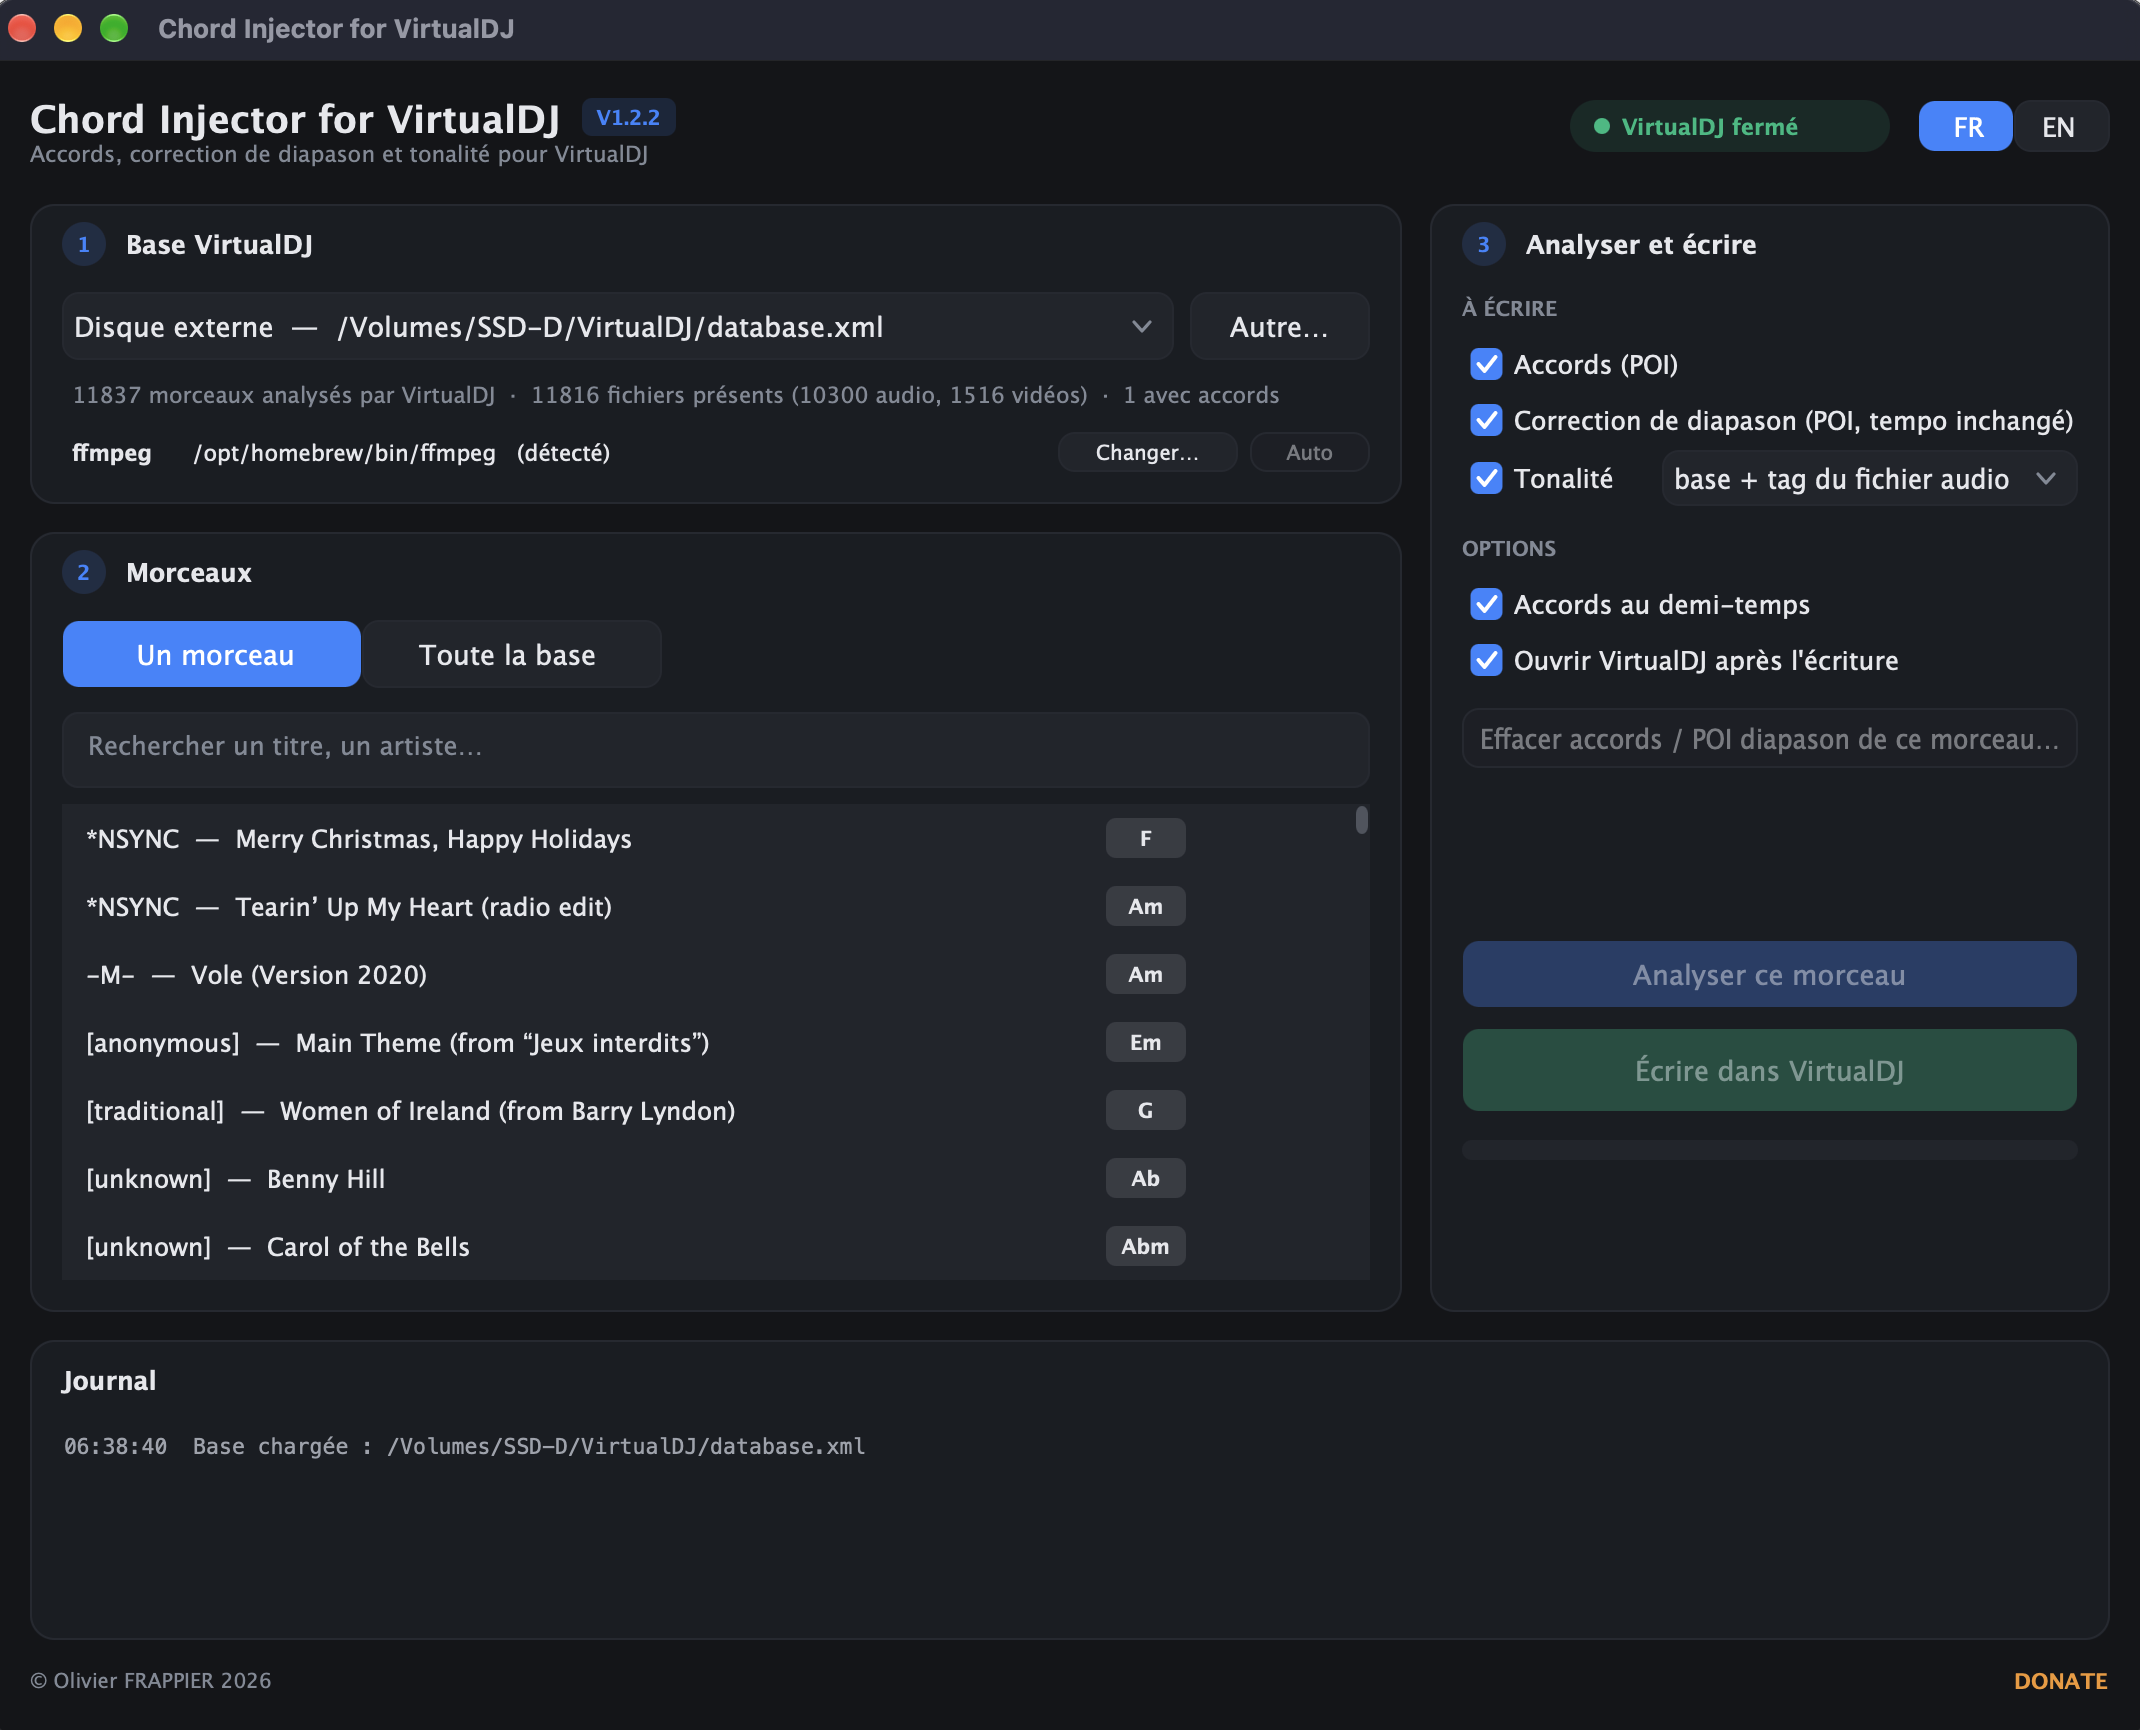
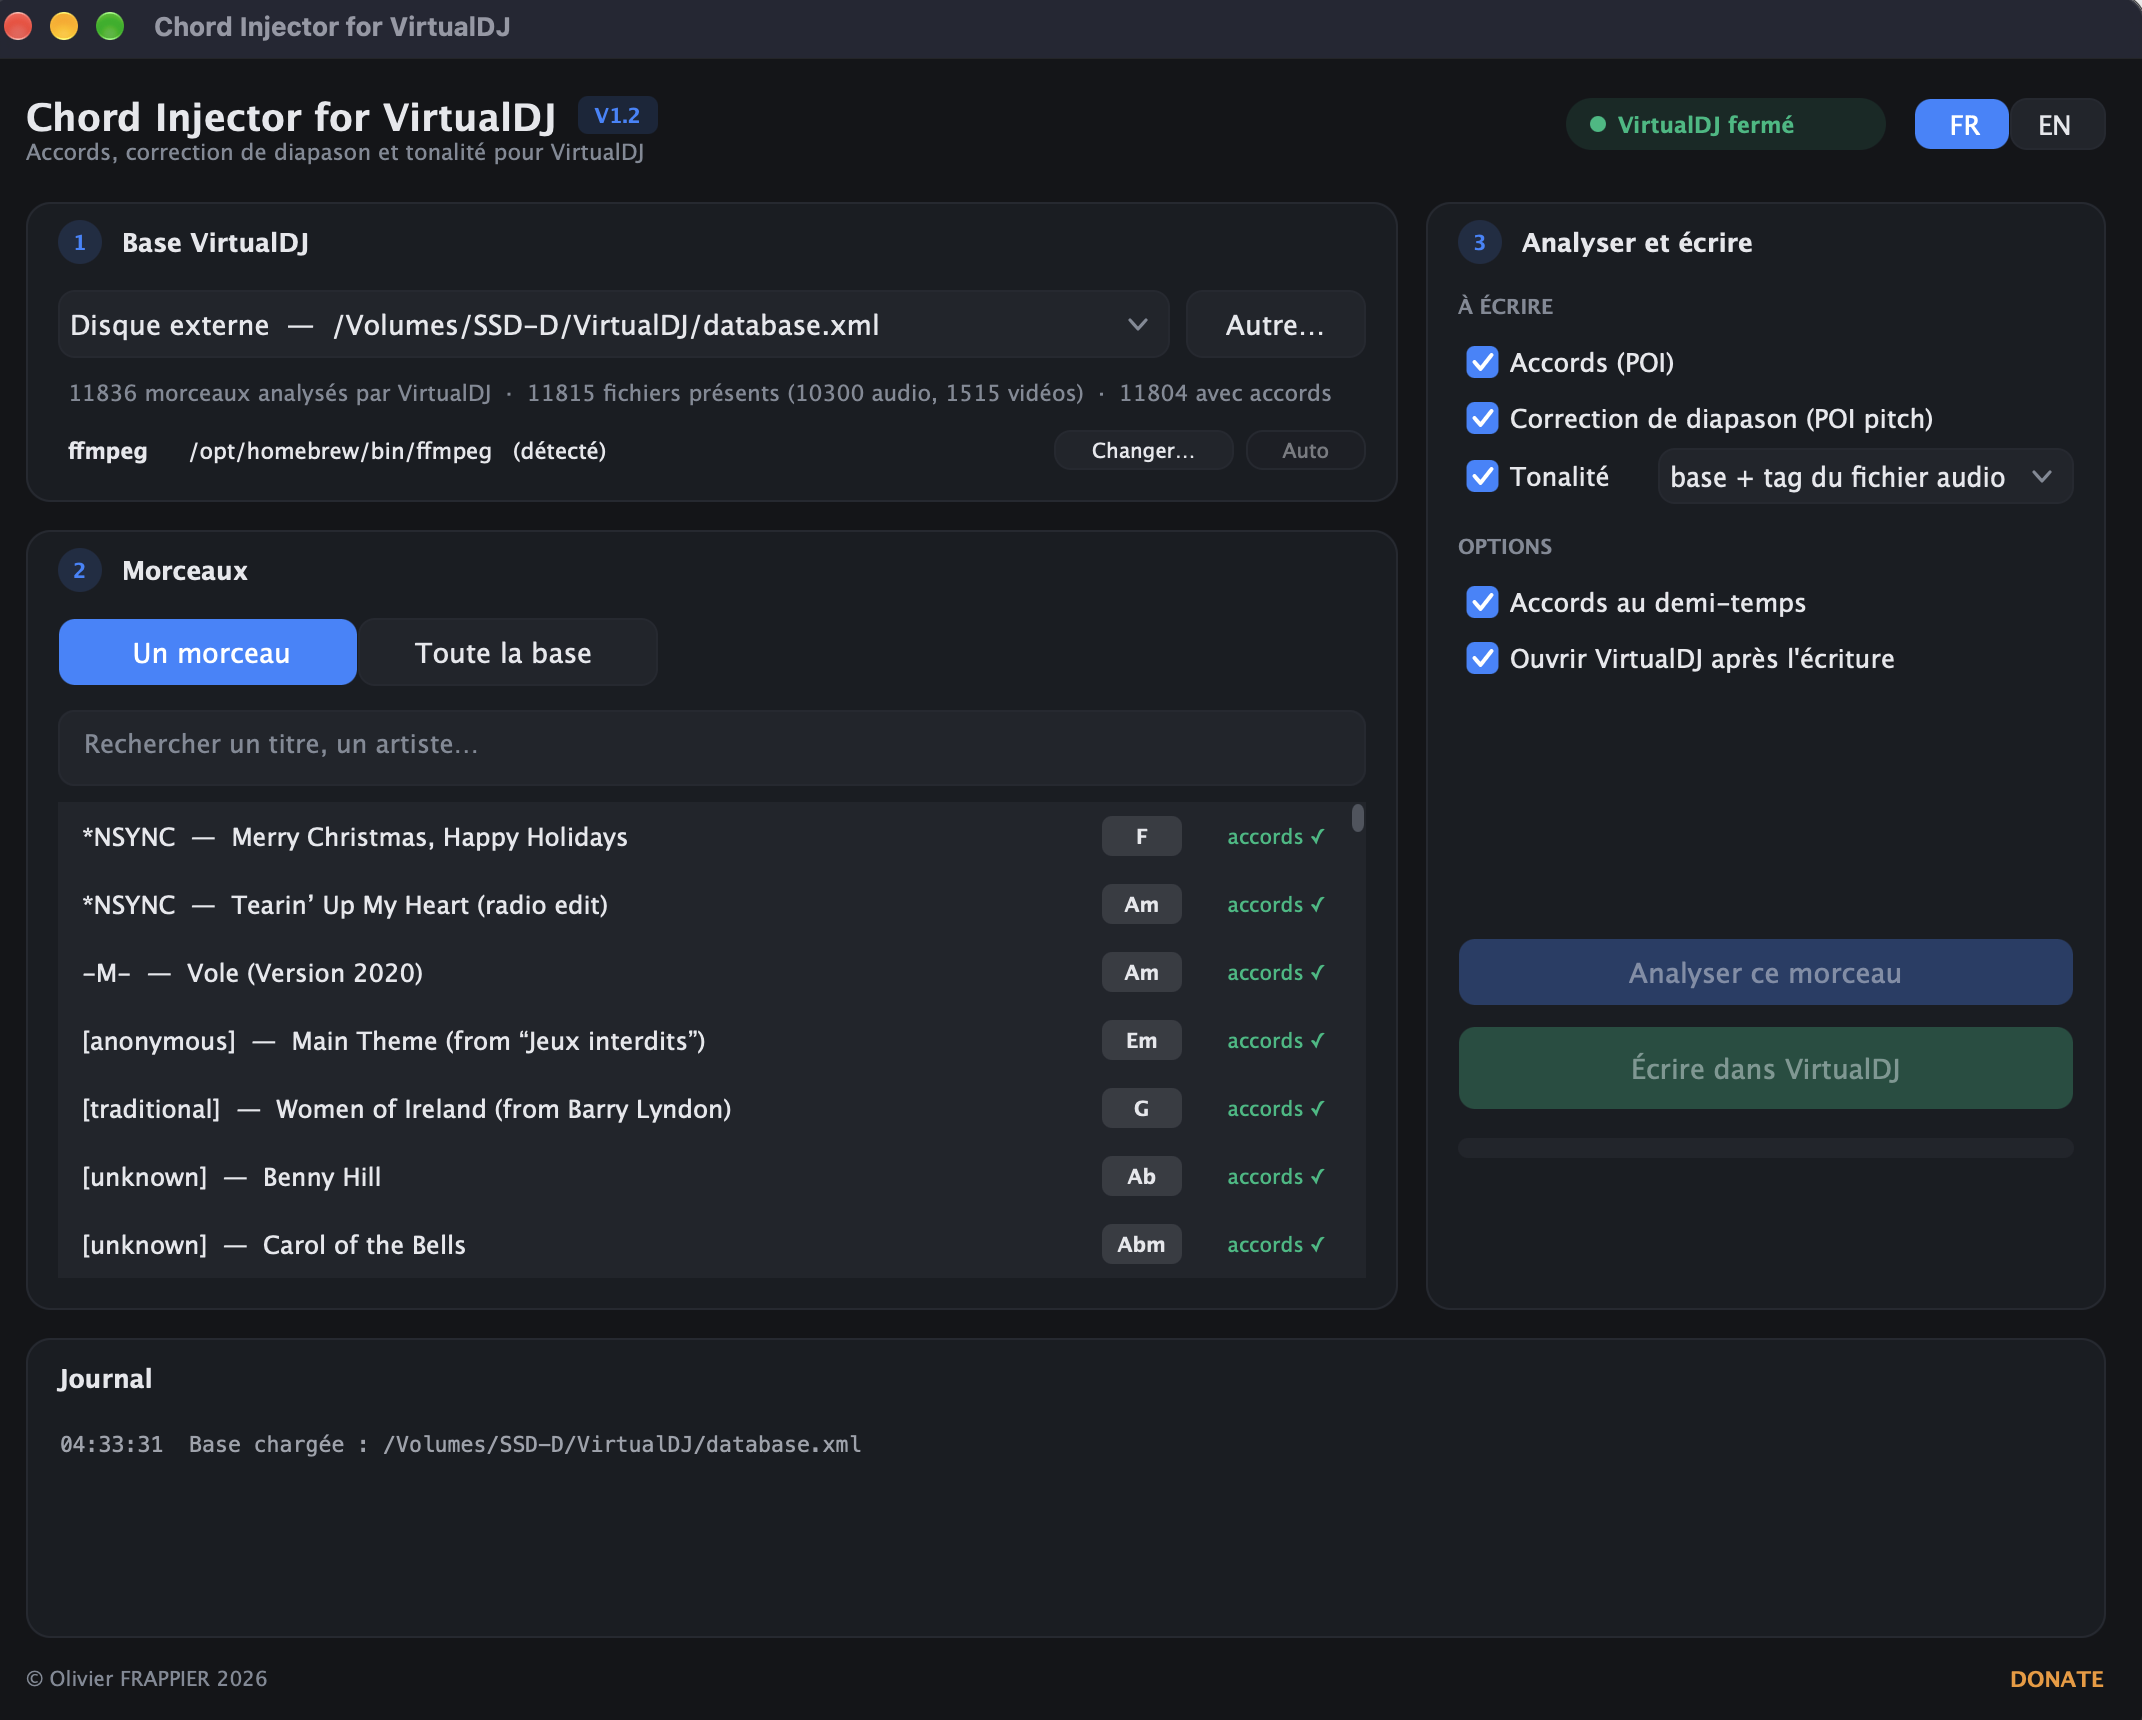
V1.2.3: C++ / JUCE rewrite, macOS + Windows

diff --git a/README.md b/README.md
@@ -2,13 +2,18 @@
 
 
 <p align="center">
-  <img src="screenshot2.png?v=1.2.2" alt="Chord Injector for Virtual DJ 2026 interface" width="900">
+  <img src="screenshot2.png?v=1.2" alt="Chord Injector for Virtual DJ 2026 interface" width="900">
 </p>
 
 
 
 <h1 align="center">Chord Injector for VirtualDJ</h1>
-<p align="center"><b>V1.2.2</b> · macOS (Apple Silicon) · Windows (x64)</p>
+<p align="center"><b>V1.2.3</b> · macOS (Apple Silicon) · Windows (x64)</p>
+<p align="center">
+  <a href="https://github.com/owfrappier/Chord-Injector-for-VirtualDJ/releases/download/v1.2.3/Chord-Injector-for-VirtualDJ-1.2.3-macOS.pkg"><b>⬇ macOS (.pkg)</b></a> &nbsp;·&nbsp;
+  <a href="https://github.com/owfrappier/Chord-Injector-for-VirtualDJ/releases/download/v1.2.3/Chord-Injector-for-VirtualDJ-1.2.3-Windows-x64.exe"><b>⬇ Windows (.exe)</b></a> &nbsp;·&nbsp;
+  <a href="https://github.com/owfrappier/Chord-Injector-for-VirtualDJ/releases/latest">Latest release</a>
+</p>
 <p align="center"><a href="https://www.paypal.com/paypalme/owfrappier"><b>☕ DONATE (PayPal)</b></a></p>
 
 ---
@@ -19,12 +24,12 @@
 
 ## English
 
-> 🎯 **New in V1.2.2 — every track in tune at A = 440 Hz, without touching the tempo.**
+> 🎯 **Since V1.2.2 — every track in tune at A = 440 Hz, without touching the tempo.**
 > The tuning POI now uses VirtualDJ's `key_smooth`: the track is shifted by the exact number of cents it is out of tune, while **the BPM stays exactly the same** — with or without Master Tempo (key lock). Before, the pitch POI also changed the tempo, and did nothing to the tuning with Master Tempo on.
 
 **Chord Injector for VirtualDJ** analyses your music library and writes into VirtualDJ:
 
-- 🎹 **Chords** as POI markers, aligned on VirtualDJ's own beat grid (fixed and variable BPM), with half-beat passing chords, 7ths, maj7, dim/dim7, half-diminished m7b5, inversions (C/E, G7/B…) and chromatic bass lines (Cm → Cm/B → Cm/Bb).
+- 🎹 **Chords** as POI markers, aligned on VirtualDJ's own beat grid (fixed and variable BPM), with half-beat passing chords, 7ths, maj7, dim/dim7, half-diminished m7b5, 6th chords (C6, Cm6, Fm6), suspended chords (Csus2sus4, G7sus4), inversions (C/E, G7/B…) and chromatic bass lines (Cm → Cm/B → Cm/Bb). Richer names are only given when the audio clearly supports them: the main harmony always comes first.
 - 🎚 **Fine tuning to A = 440 Hz, tempo unchanged**: the tuning of each track is measured to the cent and a tuning POI is added (named in cents, e.g. `-43.6c`, action `key_smooth`), so tracks play in tune with synths, VSTs or a piano — **the BPM does not move**, with or without Master Tempo.
 - 🔑 **Key** of the track, deduced from its chords — written to the VirtualDJ database, to the audio file tag (`TKEY`), or both.
 
@@ -32,11 +37,11 @@ Full library (≈ 12 000 tracks) analysed in about **30 minutes** on a recent Ma
 
 ### Download & install
 
-Get the latest version in **[Releases](https://github.com/owfrappier/Chord-Injector-for-VirtualDJ/releases)**.
+Get the latest version in **[Releases](https://github.com/owfrappier/Chord-Injector-for-VirtualDJ/releases/latest)**.
 The former Python / AppleScript version (V13) is still available in the older releases of this repository.
 
 - **macOS**: open the **.pkg** installer (signed and notarised by Apple), the app is installed in Applications.
-- **Windows**: download and run *Chord.Injector.for.VirtualDJ.exe* (nothing to install). The app is not signed: if SmartScreen shows "Windows protected your PC", click **More info** → **Run anyway**.
+- **Windows**: download and run *Chord-Injector-for-VirtualDJ-…-Windows-x64.exe* (nothing to install). The app is not signed: if SmartScreen shows "Windows protected your PC", click **More info** → **Run anyway**.
 
 Requirements: **VirtualDJ 2026 (build 9295 or newer)**, tracks already analysed by VirtualDJ (BPM / beat grid).
 
@@ -73,12 +78,12 @@ The first chord is placed 0.25 s after the tuning POI. If the two labels overlap
 
 ## Français
 
-> 🎯 **Nouveau dans la V1.2.2 — chaque morceau juste à La = 440 Hz, sans toucher au tempo.**
+> 🎯 **Depuis la V1.2.2 — chaque morceau juste à La = 440 Hz, sans toucher au tempo.**
 > La POI de diapason utilise maintenant `key_smooth` de VirtualDJ : le morceau est décalé du nombre exact de cents dont il est faux, et **le BPM reste exactement le même** — avec ou sans Master Tempo. Avant, la POI pitch changeait aussi le tempo, et ne corrigeait plus la justesse quand Master Tempo était activé.
 
 **Chord Injector for VirtualDJ** analyse votre bibliothèque et écrit dans VirtualDJ :
 
-- 🎹 **Les accords** en POI, calés sur la grille de beats de VirtualDJ (BPM fixe ou variable), avec accords de passage au demi-temps, 7e, maj7, dim/dim7, demi-diminués m7b5, renversements (C/E, G7/B…) et lignes de basse chromatiques (Cm → Cm/B → Cm/Bb).
+- 🎹 **Les accords** en POI, calés sur la grille de beats de VirtualDJ (BPM fixe ou variable), avec accords de passage au demi-temps, 7e, maj7, dim/dim7, demi-diminués m7b5, accords de 6te (C6, Cm6, Fm6), accords suspendus (Csus2sus4, G7sus4), renversements (C/E, G7/B…) et lignes de basse chromatiques (Cm → Cm/B → Cm/Bb). Les noms enrichis ne sont donnés que si l'audio les justifie nettement : l'harmonie principale passe toujours en premier.
 - 🎚 **La correction de diapason à La = 440 Hz, tempo inchangé** : l'accordage de chaque morceau est mesuré au cent près et une POI de diapason est ajoutée (nommée en cents, ex. `-43.6c`, action `key_smooth`), pour jouer juste avec un synthé, des VST ou un piano — **le BPM ne bouge pas**, avec ou sans Master Tempo.
 - 🔑 **La tonalité**, déduite des accords — écrite dans la base VirtualDJ, dans le tag du fichier audio (`TKEY`), ou les deux.
 
@@ -86,11 +91,11 @@ Une bibliothèque entière (≈ 12 000 morceaux) est analysée en **30 minutes e
 
 ### Téléchargement et installation
 
-Dernière version dans **[Releases](https://github.com/owfrappier/Chord-Injector-for-VirtualDJ/releases)**.
+Dernière version dans **[Releases](https://github.com/owfrappier/Chord-Injector-for-VirtualDJ/releases/latest)**.
 L'ancienne version Python / AppleScript (V13) reste disponible dans les anciennes releases de ce dépôt.
 
 - **macOS** : ouvrez l'installeur **.pkg** (signé et notarisé par Apple), l'app s'installe dans Applications.
-- **Windows** : téléchargez et lancez *Chord.Injector.for.VirtualDJ.exe* (rien à installer). L'application n'est pas signée : si SmartScreen affiche « Windows a protégé votre ordinateur », cliquez sur **Informations complémentaires** → **Exécuter quand même**.
+- **Windows** : téléchargez et lancez *Chord-Injector-for-VirtualDJ-…-Windows-x64.exe* (rien à installer). L'application n'est pas signée : si SmartScreen affiche « Windows a protégé votre ordinateur », cliquez sur **Informations complémentaires** → **Exécuter quand même**.
 
 Prérequis : **VirtualDJ 2026 (build 9295 ou plus récent)**, morceaux déjà analysés par VirtualDJ (BPM / grille).
 

diff --git a/CHANGELOG.md b/CHANGELOG.md
@@ -1,5 +1,8 @@
 # Changelog
 
+## V1.2.3 — 2026-10
+- Accords de 6te (aussi joués sans tierce, ex. Fm6) et suspendus déduits de la basse : C6, Cm6, Fm6, Csus2sus4, G7sus4. / 6th chords (also played without a third, e.g. Fm6) and suspended chords deduced from the bass.
+
 ## V1.2.2 — 2026-10
 - Accord demi-diminué **m7b5** (Aø = A C E♭ G), auparavant détecté comme Am7. / Half-diminished **m7b5** chord (Aø), previously detected as Am7.
 - Lignes de basse chromatiques (Cm → Cm/B → Cm/Bb → Am7b5) écrites avec leur basse. / Chromatic bass lines written with their bass note.
